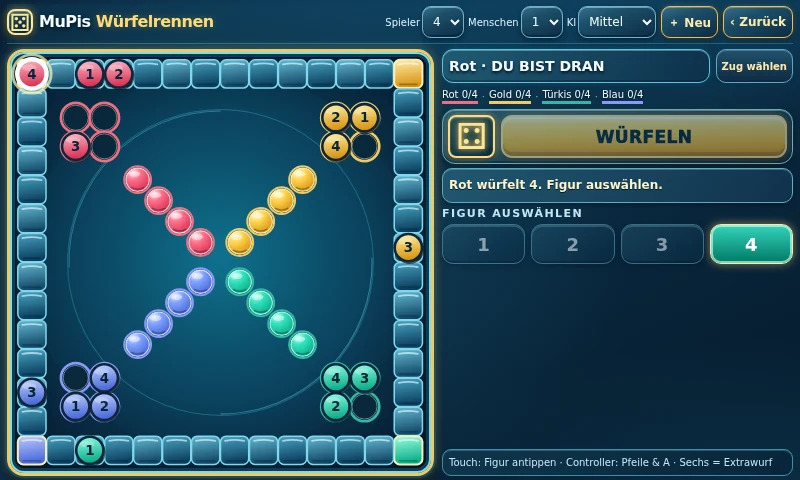
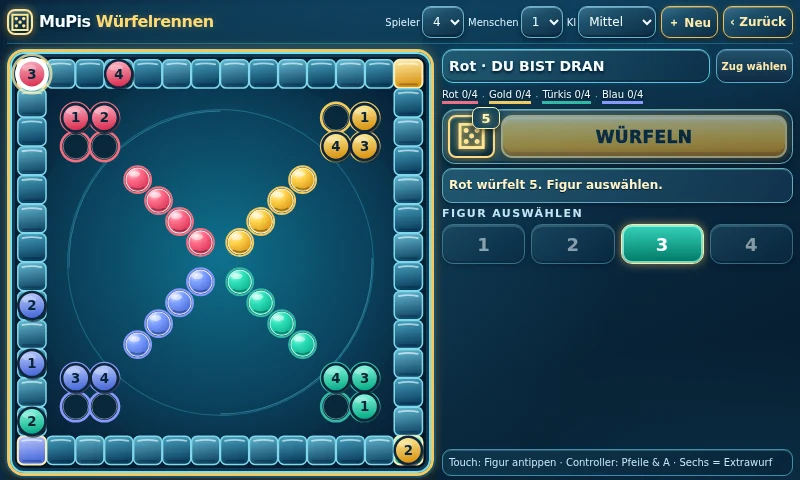
fix(dicerace): hold six, relax start clearing, guard captures (#82)

diff --git a/examples/mupi-wuerfelrennen/app.js b/examples/mupi-wuerfelrennen/app.js
@@ -39,8 +39,8 @@ const DiceRace=(()=>{
    const exits=moves.filter(m=>b[p][m.piece]===-1);
    if(exits.length)return exits;
   }
-  // Die eigene Startposition darf nicht unnötig besetzt bleiben.
-  const clearStart=moves.filter(m=>b[p][m.piece]===0);
+  // Nur solange Figuren warten, muss die eigene Startposition frei werden.
+  const clearStart=waiting?moves.filter(m=>b[p][m.piece]===0):[];
   if(clearStart.length)return clearStart;
   return moves;
  }
@@ -51,7 +51,17 @@ const DiceRace=(()=>{
    rawMoves(b,p,die).some(m=>b[p][m.piece]>=0));
   return canMoveOutside?1:3;
  }
- function apply(b,p,m){const out=b.map(row=>row.slice());out[p][m.piece]=m.to;for(const c of m.captured)out[c.player][c.piece]=-1;return out;}
+ // Always derive captures from the current board, never trust a delayed/stale move.
+ function apply(b,p,m){
+  const from=b[p]?.[m.piece];
+  const die=from===-1?6:m.to-from;
+  const legal=possible(b,p,die).find(x=>x.piece===m.piece&&x.to===m.to);
+  if(!legal)throw new Error("Ungültiger oder veralteter Würfelrennen-Zug");
+  const out=b.map(row=>row.slice());
+  out[p][legal.piece]=legal.to;
+  for(const c of legal.captured)out[c.player][c.piece]=-1;
+  return out;
+ }
  function choose(b,p,die,level){
   const ms=possible(b,p,die);if(!ms.length)return null;
   if(level==="easy")return ms[Math.floor(Math.random()*ms.length)];
@@ -160,7 +170,7 @@ for(let p=0;p<4;p++){
   staticLayer.append(S("circle",{cx:bx,cy:by,r:13.2,fill:"#0a3043",stroke:goalTop[p],"stroke-width":.75,opacity:.68}));
  }
 }
-let b,players=4,human=1,turn=0,die=0,ended=false,epoch=0,selectedPiece=0,aiTimer=0,attempts=0,maxAttempts=3;
+let b,players=4,human=1,turn=0,die=0,lastRoll=0,ended=false,settling=false,epoch=0,selectedPiece=0,aiTimer=0,pendingAdvance=null,attempts=0,maxAttempts=3;
 const active=()=>players===2?[0,2]:players===3?[0,1,2]:[0,1,2,3];
 const isHuman=()=>active().indexOf(turn)<human;
 const locate=(p,k)=>{
@@ -208,41 +218,65 @@ function render(){
   scoreNodes.push(tag);
  }
  $("score").replaceChildren(...scoreNodes);
- $("attempts").textContent=ended?"Sieg":die?"Zug wählen":maxAttempts===3?"Wurf "+Math.min(attempts+1,3)+"/3":"Dein Zug";
- $("dice").textContent=die?faces[die-1]:"⚄";
- $("roll").disabled=ended||!isHuman()||die>0;
+ $("attempts").textContent=ended?"Sieg":settling?"Geschlagen!":die?"Zug wählen":maxAttempts===3?"Wurf "+Math.min(attempts+1,3)+"/3":"Dein Zug";
+ const visibleDie=die||lastRoll;
+ $("dice").textContent=visibleDie?faces[visibleDie-1]:"?";
+ $("dice").dataset.value=visibleDie?String(visibleDie):"";
+ $("dice").classList.toggle("six",visibleDie===6);
+ $("roll").disabled=ended||settling||!isHuman()||die>0;
  for(let k=0;k<4;k++){
-  const btn=pieceButtons[k];btn.disabled=ended||!isHuman()||!playable.has(k);
+  const btn=pieceButtons[k];btn.disabled=ended||settling||!isHuman()||!playable.has(k);
   btn.classList.toggle("active",selectedPiece===k&&playable.has(k)&&isHuman()&&!ended);
  }
 }
 function finishMove(m){
- b=DiceRace.apply(b,turn,m);
+ if(ended||settling||!die)return;
+ // Revalidate before applying: a timer must never move a piece for a later turn.
+ const legal=DiceRace.possible(b,turn,die).find(x=>x.piece===m.piece&&x.to===m.to);
+ if(!legal)return;
+ epoch++;clearTimeout(aiTimer);pendingAdvance=null;
+ b=DiceRace.apply(b,turn,legal);
  const face=die;
- status(names[turn]+" zieht Stein "+(m.piece+1)+(m.captured.length?" – rausgeworfen!":""));
- if(b[turn].every(v=>v>=52)){ended=true;die=0;status(names[turn]+" GEWINNT!");render();return;}
- if(face===6){
-  attempts=0;maxAttempts=DiceRace.rollLimit(b,turn);die=0;
-  status(names[turn]+" hat eine Sechs – Extrawurf!");
-  render();computer();
- }else next();
+ const victimNames=legal.captured.map(c=>names[c.player]+" "+(c.piece+1)).join(", ");
+ status(legal.captured.length?
+  names[turn]+" schlägt "+victimNames+" – zurück ins Haus!":
+  names[turn]+" zieht Figur "+(legal.piece+1)+".");
+ if(b[turn].every(v=>v>=52)){
+  ended=true;die=0;status(names[turn]+" GEWINNT!");render();return;
+ }
+ const advance=()=>{
+  pendingAdvance=null;settling=false;die=0;
+  if(face===6){
+   attempts=0;maxAttempts=DiceRace.rollLimit(b,turn);
+   status(names[turn]+" hat eine Sechs – Extrawurf!");
+   render();computer();
+  }else next();
+ };
+ if(legal.captured.length){
+  // Hold the board so the beaten piece visibly returns home before the next turn.
+  settling=true;die=0;pendingAdvance=advance;render();
+  const id=epoch;
+  aiTimer=setTimeout(()=>{if(id===epoch&&!ended)advance();},1000);
+ }else advance();
 }
 function select(k,p=turn){
- selectedPiece=k;if(p!==turn||ended||!isHuman()||!die){render();return;}
+ if(p!==turn||ended||settling||!isHuman()||!die)return;
+ selectedPiece=k;
  const m=DiceRace.possible(b,turn,die).find(m=>m.piece===k);
  if(!m){status("Figur "+(k+1)+" kann mit "+die+" nicht ziehen.");render();return;}
  finishMove(m);
 }
 function next(){
- die=0;const list=active();turn=list[(list.indexOf(turn)+1)%list.length];
+ die=0;lastRoll=0;const list=active();turn=list[(list.indexOf(turn)+1)%list.length];
  attempts=0;maxAttempts=DiceRace.rollLimit(b,turn);selectedPiece=0;
  status(names[turn]+" ist dran."+(maxAttempts===3?" Drei Wurfversuche.":""));
  render();computer();
 }
 function rolled(){
- if(ended||die)return;
+ if(ended||die||settling)return;
+ epoch++;clearTimeout(aiTimer);
  attempts++;
- die=1+Math.floor(Math.random()*6);
+ die=1+Math.floor(Math.random()*6);lastRoll=die;
  const ms=DiceRace.possible(b,turn,die);
  if(ms.length&&!ms.some(m=>m.piece===selectedPiece))selectedPiece=ms[0].piece;
  const forcedExit=die===6&&ms.length&&ms.every(m=>b[turn][m.piece]===-1);
@@ -259,27 +293,27 @@ function rolled(){
     status("Kein Zug möglich – nächster Versuch ("+(attempts+1)+"/"+maxAttempts+").");
     render();computer();
    }else{status("Kein Zug möglich – nächster Spieler.");next();}
-  },300);
+  },die===6?1050:520);
  }else if(forcedExit){
   // Alle Basisfiguren sind gleichwertig: automatische Pflichtausfahrt.
   const id=epoch;aiTimer=setTimeout(()=>{
    if(id!==epoch||ended||die!==6)return;finishMove(ms[0]);
-  },260);
+  },1150);
  }else if(!isHuman()){
   const id=epoch;aiTimer=setTimeout(()=>{if(id!==epoch||ended)return;
    const move=DiceRace.choose(b,turn,die,$("difficulty").value);if(move)finishMove(move);
-  },220);
+  },die===6?1050:450);
  }
 }
 function computer(){
  if(!ended&&!isHuman()&&!die){
-  const id=epoch;aiTimer=setTimeout(()=>{if(id===epoch)rolled();},160);
+  const id=epoch;aiTimer=setTimeout(()=>{if(id===epoch&&!settling)rolled();},320);
  }
 }
 function reset(){
- epoch++;clearTimeout(aiTimer);
+ epoch++;clearTimeout(aiTimer);pendingAdvance=null;
  players=+ $("playercount").value;human=Math.min(+ $("human").value,players);$("human").value=human;
- b=DiceRace.state(players);turn=active()[0];die=0;ended=false;selectedPiece=0;
+ b=DiceRace.state(players);turn=active()[0];die=0;lastRoll=0;ended=false;settling=false;selectedPiece=0;
  attempts=0;maxAttempts=DiceRace.rollLimit(b,turn);
  status("Du hast drei Versuche, eine Sechs zu würfeln.");render();computer();
 }
@@ -288,12 +322,18 @@ $("restart").onclick=reset;
 for(const id of ["playercount","human","difficulty"])$(id).onchange=reset;
 $("exit").onclick=()=>{epoch++;clearTimeout(aiTimer);sdk.exit();};
 sdk.on("lifecycle.pause",()=>{epoch++;clearTimeout(aiTimer);});
+sdk.on("lifecycle.resume",()=>{
+ // If a capture animation was interrupted, resume the recorded turn transition.
+ if(pendingAdvance){pendingAdvance();return;}
+ // A computer turn must also resume if it was waiting for its next roll.
+ if(!ended&&!die&&!settling)computer();
+});
 sdk.on("input",({button,action})=>{
  if(action!=="press")return;
  if(button==="BACK"){epoch++;clearTimeout(aiTimer);sdk.exit();return;}
  if(button==="LEFT"||button==="UP")selectedPiece=(selectedPiece+3)%4;
  if(button==="RIGHT"||button==="DOWN")selectedPiece=(selectedPiece+1)%4;
- if(button==="A"||button==="START"){if(!die&&isHuman())rolled();else if(die)select(selectedPiece);}
+ if(button==="A"||button==="START"){if(!die&&isHuman()&&!settling)rolled();else if(die)select(selectedPiece);}
  render();
 });
 reset();

diff --git a/examples/mupi-wuerfelrennen/style.css b/examples/mupi-wuerfelrennen/style.css
@@ -96,7 +96,24 @@ select{min-width:42px;max-width:80px}
   background:linear-gradient(145deg,#214d57,#09283b);
   box-shadow:inset 0 1px 2px #fff2b46e,0 0 8px #ffcf5b8a,0 2px 4px #0008;
 }
-#dice.roll{animation:roll .25s ease-out}
+#dice{position:relative}
+#dice[data-value]:not([data-value=""])::after{
+ content:attr(data-value);position:absolute;right:-7px;top:-10px;
+ min-width:20px;height:20px;padding:0 3px;display:grid;place-items:center;
+ border:1px solid #fff1a8;border-radius:7px;background:#17445b;
+ font:900 13px/1 system-ui,sans-serif;color:#fff5bb;box-shadow:0 2px 6px #0009;
+}
+#dice.six{
+ color:#fff8ca;border-color:#fff7c9;
+ box-shadow:inset 0 1px 3px #fff4bdb3,0 0 16px #ffe082,0 2px 4px #0008;
+}
+#dice.roll{animation:roll .45s ease-out}
+#dice.roll.six{animation:six-pulse 1.05s ease-out}
+@keyframes six-pulse{
+ 0%,100%{transform:scale(1)}
+ 22%,65%{transform:scale(1.13);filter:brightness(1.35)}
+ 45%{transform:scale(1.03);filter:brightness(1.1)}
+}
 .primary{
   flex:1;min-height:52px;border:2px solid #fff3a8;border-radius:11px;
   background:linear-gradient(#fff9c8 0%,#ffe387 17%,#ffd254 46%,#f8b92e 78%,#d9901f 100%);

diff --git a/tests/test_board_game_browser_smoke.py b/tests/test_board_game_browser_smoke.py
@@ -9,6 +9,7 @@ import math
 import itertools
 import shutil
 import socket
+import tempfile
 import subprocess
 import time
 import unittest
@@ -86,6 +87,43 @@ class BoardGamesBrowserSmoke(unittest.TestCase):
                         )
                 else:
                     self.assertGreaterEqual(result.stdout.count("<rect"),required)
+
+
+    def test_dicerace_six_is_visible_during_automatic_exit(self):
+        # Use the real browser and runtime, with only a deterministic die roll.
+        app=ROOT/"examples"/"mupi-wuerfelrennen"
+        with tempfile.TemporaryDirectory(prefix="mupi-dicerace-") as tmp:
+            dest=Path(tmp)
+            for name in ("index.html","app.js","style.css","mupibox-sdk.js"):
+                shutil.copy2(app/name,dest/name)
+            html=(dest/"index.html").read_text(encoding="utf-8")
+            probe="""<script>
+              Math.random=()=>0.99;
+              document.getElementById('roll').click();
+              document.body.dataset.first=document.getElementById('dice').dataset.value;
+              setTimeout(()=>{
+                document.body.dataset.hold=document.getElementById('dice').dataset.value;
+                document.body.dataset.message=document.getElementById('status').textContent;
+              },650);
+              setTimeout(()=>{
+                document.body.dataset.after=document.getElementById('dice').dataset.value;
+                document.body.dataset.next=document.getElementById('status').textContent;
+              },1450);
+            </script>"""
+            (dest/"index.html").write_text(
+                html.replace("</body>",probe+"</body>"),encoding="utf-8")
+            run=subprocess.run([
+                BROWSER,"--headless","--no-sandbox","--disable-gpu",
+                "--disable-dev-shm-usage","--disable-background-networking",
+                "--virtual-time-budget=1700","--window-size=800,480",
+                "--dump-dom",(dest/"index.html").as_uri(),
+            ],capture_output=True,text=True,timeout=22)
+            self.assertEqual(run.returncode,0,run.stderr[-500:])
+            self.assertRegex(run.stdout,r'data-first="6"')
+            self.assertRegex(run.stdout,r'data-hold="6"')
+            self.assertRegex(run.stdout,r'data-message="Sechs!')
+            self.assertRegex(run.stdout,r'data-after="6"')
+            self.assertRegex(run.stdout,r'data-next="[^"]*Extrawurf!')
 
 
 if __name__=="__main__":

diff --git a/tools/capture_mupi_wuerfelrennen_screenshots.py b/tools/capture_mupi_wuerfelrennen_screenshots.py
@@ -27,7 +27,7 @@ SCENES = (
 )
 SIMULATE = r"""
 const g = require(process.argv[1]);
-let seed = 290584;
+let seed = 2; // deterministic game where Rot reaches the finish after all scene types
 Math.random = () => {
   seed ^= seed << 13;
   seed ^= seed >>> 17;
@@ -61,7 +61,7 @@ for (let roll = 0; roll < 12000; roll++) {
     }
     b = g.apply(b, turn, chosen);
     if (b[turn].every(v => v >= 52)) {
-      victory = { board: clone(), turn, die: 0, selected: 0 };
+      victory = { board: clone(), turn, die: 0, lastRoll: die, selected: 0 };
       break;
     }
     if (die === 6) {
@@ -99,6 +99,8 @@ window.__setScreenshotState = scene => {
   b = item.board.map(row => row.slice());
   turn = item.turn;
   die = item.die;
+  lastRoll = item.lastRoll || item.die || 0;
+  settling = false;
   ended = scene === "win";
   selectedPiece = item.selected;
   attempts = item.attempts || 1;

diff --git a/examples/mupi-wuerfelrennen/README.md b/examples/mupi-wuerfelrennen/README.md
@@ -1,14 +1,14 @@
 # MuPis Würfelrennen
 
 Eigenständiges, offline spielbares Würfel-Brettspiel für zwei bis vier Personen
-oder KI-Spieler. Die aktuelle **Hochglanz-Edition 0.2.8** kombiniert ein
+oder KI-Spieler. Die aktuelle **Hochglanz-Edition 0.2.9** kombiniert ein
 goldgerahmtes Spielfeld mit 52 äußeren Feldern, vier Startbereichen und
 16 getrennten, kreisförmigen Zielfeldern. Optimiert für die **5-Zoll-MuPiBox
 (800 × 480 Pixel)** mit Touch- und Controllerbedienung.
 
 ## Screenshots (800 × 480)
 
-Diese Bilder stammen direkt aus der **laufenden Community-Web-App v0.2.8**,
+Diese Bilder stammen direkt aus der **laufenden Community-Web-App v0.2.9**,
 aufgenommen mit Chromium bei 800 × 480 Pixeln. Für die Spielsituationen
 wurden nachvollziehbare Spielstände aus einer vollständig durch die
 Spiel-Engine simulierten Partie verwendet. Es sind **keine KI-Mockups**
@@ -29,11 +29,16 @@ direkt im Ordner dieser Anwendung.
 
 - Eine **6** bringt eine Figur verpflichtend aus dem Haus, sofern dies möglich
   ist. Eine gegnerische Figur auf dem Startfeld wird dabei geschlagen.
-- Die eigene Figur auf dem Startfeld muss bei nächster legaler Gelegenheit
-  weiterziehen; eine Blockade lässt einen anderen gültigen Zug zu.
+- Solange noch Figuren im Haus warten, muss das eigene Startfeld bei nächster
+  legaler Gelegenheit frei werden. Sind alle vier Figuren draußen, entfällt
+  dieser Zwang und es dürfen alle sonst erlaubten Figuren ziehen.
 - Wenn keine bereits ausgezogene Figur einen legalen Zug ausführen kann,
   gibt es bis zu **drei Wurfversuche**.
-- Eine 6 nach einem gültigen Zug gibt einen **Extrawurf**.
+- Eine 6 wird deutlich sichtbar angezeigt und bei automatischer Pflichtausfahrt
+  mindestens eine Sekunde gezeigt. Eine 6 nach einem gültigen Zug gibt einen **Extrawurf**.
+- Nach einem Schlag kehrt **nur die geschlagene Figur** ins eigene Haus zurück;
+  die angreifende Figur steht auf dem Schlagfeld. Die Anzeige pausiert kurz,
+  bevor der nächste Zug beginnt.
 - Eigene Figuren dürfen keine Felder doppelt belegen, und im Zielgang darf
   nicht über andere eigene Figuren gezogen werden. Der Zieleinlauf verlangt
   die passende Augenzahl.
@@ -74,6 +79,6 @@ node --test tests/community_board_games.test.cjs
 Der Builder schließt `README.md` und alle
 `screenshot-*.webp`-Dateien ausdrücklich aus dem installierbaren
 `.mupiapp`-Archiv aus, damit die Galerie keinen Speicherplatz auf der Box
-belegt. Offizielle Katalogversion: **0.2.8**, Community Preview 50.
+belegt. Offizielle Katalogversion: **0.2.8**, Community Preview 50 (0.2.9 im Quellcode, noch nicht veröffentlicht).
 Die App benötigt nur die `controller`-Berechtigung, keine Netzverbindung.
 Quellcode unter MIT-Lizenz.
